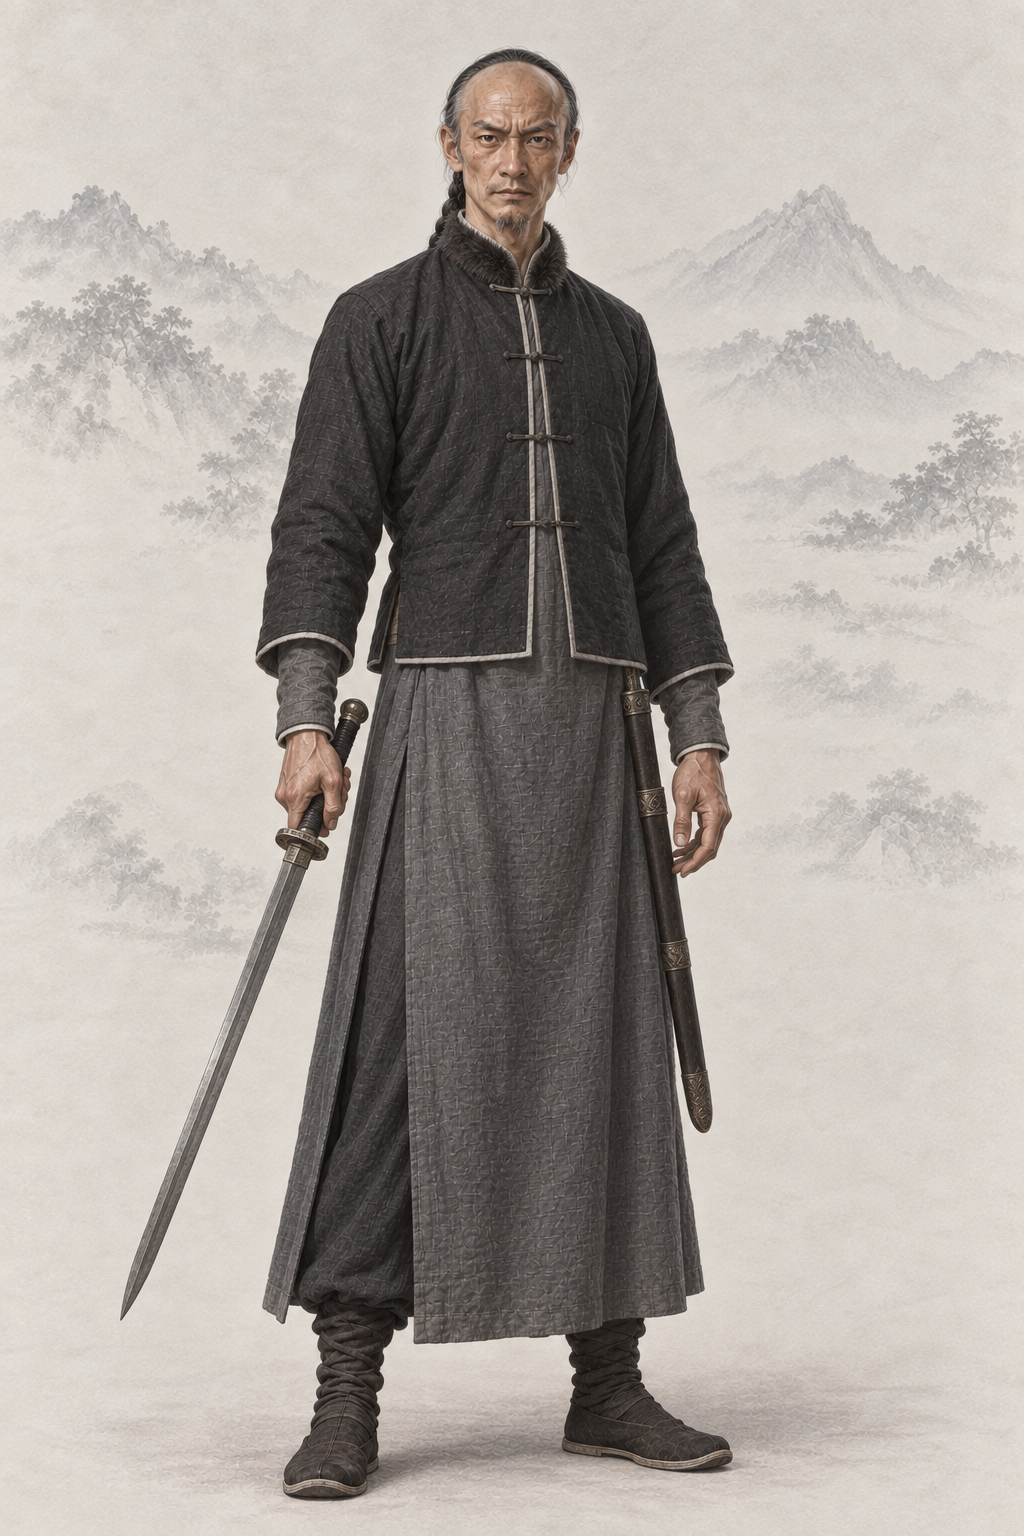
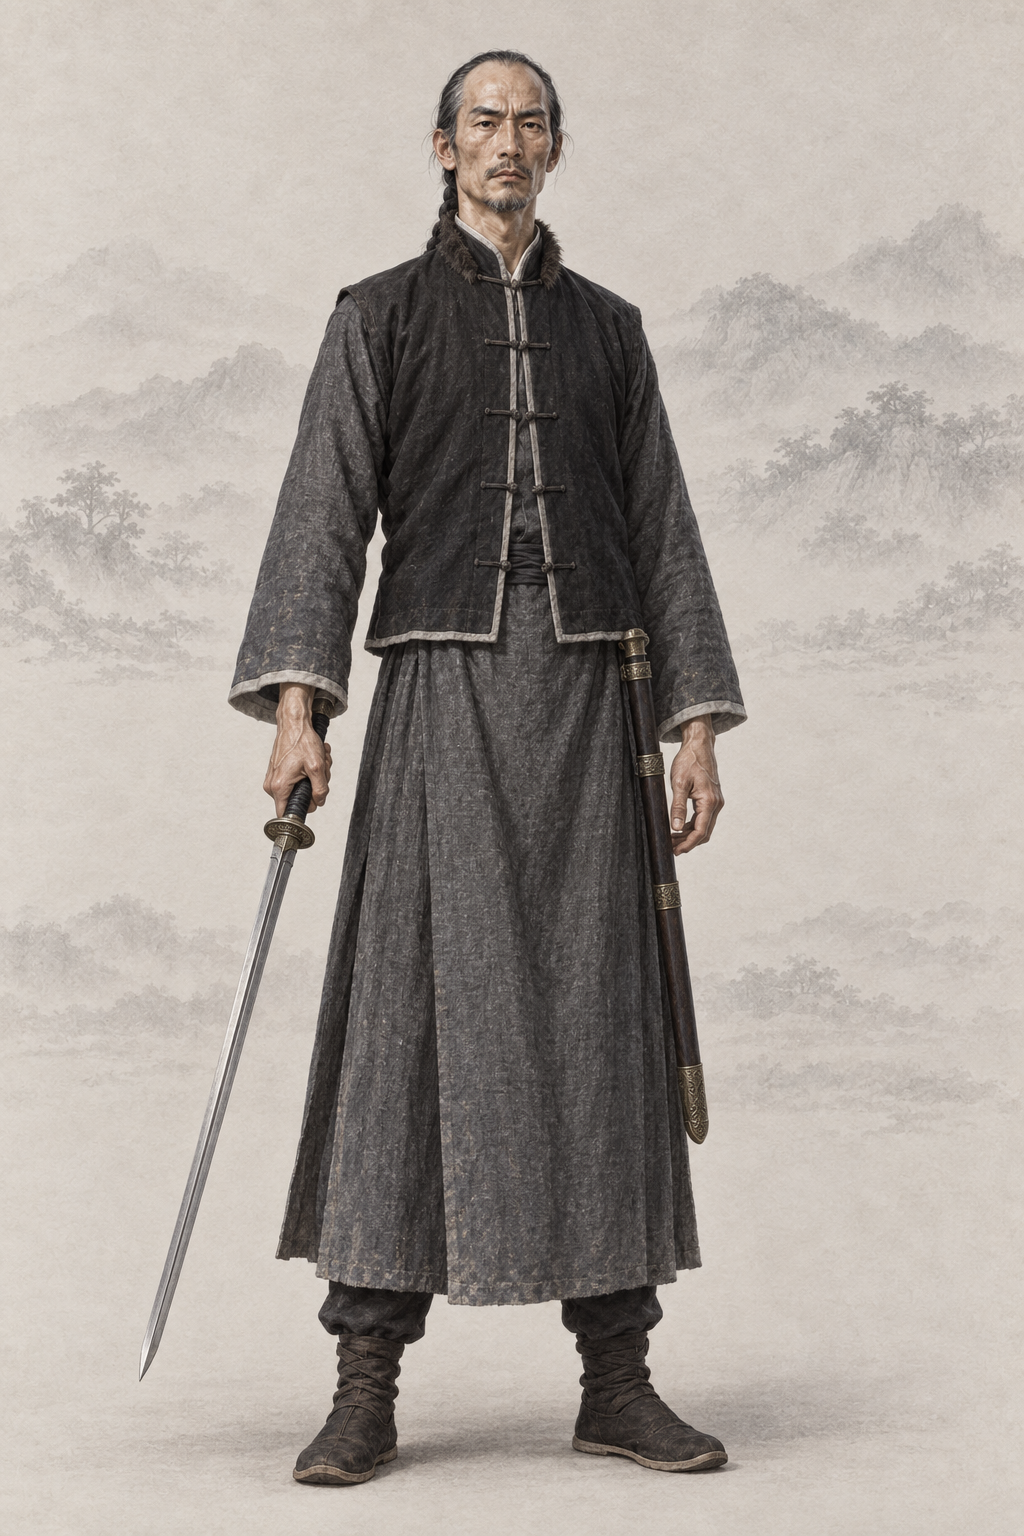
assets(character): por_npc_miaorenfeng__ch14_elder_base 苗人凤（codex · AR-32 主要角色重出，本机无剧照：本轮新图身份参考 + 基线）
本机无剧照，文字 + 基线，身份参考本轮新图；提示词写回「## Gemini 提示词」，上一版留作历史，frontmatter 加 classic_ref。

diff --git a/assets/default/prompts/characters/ch14-xueshan/npc_miaorenfeng.md b/assets/default/prompts/characters/ch14-xueshan/npc_miaorenfeng.md
@@ -13,10 +13,15 @@ references:
     use: 当前状态 candidate（当前工作区 manifest 未获批准）；仅参考纸底、光线、笔触、设色，不沿用面容、体型、服饰或道具
 status: redo
 redo_reason: "主检出现图的脸与飞狐版一致，但没有老化（无灰白），身材也不够「极高极瘦」；以重出后的飞狐苗人凤为参考，老九岁并保持竹篙身形与大手。"
+codex_prompt_rev: 2026-10-02
+classic_ref:
+  version: "无剧照（本机没有1991 年台视《雪山飞狐》（含飞狐外传情节）里该角色的剧照，经典造型用文字描写）"
+  stills: []
+  note: "本机没有该角色的经典版剧照，只用文字和两张同性别基线出图（AR-32）；另上传本轮新出的 por_npc_miaorenfeng__ch13_prime_recovered_base 作身份参考（放在最前）"
 reference_upload:
 - assets/default/character/male/ch13/por_npc_miaorenfeng__ch13_prime_recovered_base.png
 - assets/default/baseline/character/male/ref_npc_linghuchong__ch05_base01.png
-codex_prompt_rev: 2026-10-02
+- assets/default/baseline/character/male/ref_npc_xiaofeng__ch01_base01.png
 ---
 
 <!-- full-coverage-import:current-policy:v1 -->
@@ -29,6 +34,26 @@ codex_prompt_rev: 2026-10-02
 # 苗人凤 · 《雪山飞狐》（ch14）
 
 ## Gemini 提示词
+
+> 2026-10-02 AR-32 经典剧照重出（6 号出图员，codex exec · image_gen 出图）：本机没有该角色剧照：上传本轮新出的 por_npc_miaorenfeng__ch13_prime_recovered_base（同一人物）作身份参考在前、两张同性别基线在后。剧照只借鉴发型、服饰、配色、标志道具、气质与面部特征，重新绘制成项目画风，不照搬照片的构图、光影和姿势；人物一律成年；清代男子按清制剃额留辫。提示词里不写演员名。上一版提示词保留在下一节作历史。
+
+```text
+生成一张 2:3 竖幅全身人物立绘：单人、单一视角、完整全身——头顶、双手、双脚和手中器物的两端都在画面内，四周留出自然空白；人物站姿自然，身体基本朝向正面，头部端正（不歪头、不仰不俯），镜头平视。
+【参考图】随提示词上传 3 张参考图。第 1 张是本轮新画的苗人凤（九年前，飞狐外传时期）立绘，是同一个人：同一张蜡黄的长脸、同样极高极瘦的身材，只是按下文老了九岁；保持同一张脸（脸型、五官比例、肤色和神态），衣服、发式和姿势按下文文字重画，不要照搬它的构图和站姿。最后两张是本项目画风基线：画风、用色、光线、质感和暖浅灰纸底加淡水墨背景以它们为准。
+【画风】写实手绘古风人物插画，与本项目写实武侠角色立绘同一画风，像功力深厚的画师用细腻笔触画出的真实人物。手绘插画质感，不是 CG 渲染：不要过度光滑的皮肤、完美对称的五官、塑料高光、过度锐利的发丝；保留自然的笔触和细微不完美。皮肤有真实质感——细小毛孔、细纹、晒痕和自然的左右不对称，不磨皮、不油亮；头发是一缕缕自然的发丝和少量碎发；布料看得出经纬纹理、厚薄和自然垂坠的褶皱，带穿用过的轻微旧化，但完整不破烂；整体设色低饱和、沉稳；柔和的自然光从左上方照来，明暗过渡自然，不打舞台光、轮廓光或美颜柔光。不是照片，不是三维渲染，不是动漫或游戏 CG，也不是油画（没有厚涂笔触和画布纹理）。
+【背景】不透明的暖浅灰色纸底，只在远处有极淡的水墨远山和薄雾，大面积留白；人物与背景明暗分明、轮廓边缘干净完整（后续要自动抠图），水墨和纸纹只在背景里，不侵入人物和衣服；脚下只有很淡的一点接触阴影。
+【人物】苗人凤，金庸《雪山飞狐》中的「金面佛」，苗家剑高手，胡斐最后的对手，雪崖决斗之前。
+【年龄与体态】五十五岁左右的男人；极高极瘦，像一根竹篙，肩宽而薄，手臂很长，约八头身；一双手掌大如蒲扇，指节根根分明、青筋显露；背脊挺直，筋骨强健，不是病弱。
+【经典造型】要一眼认出是「金面佛」苗人凤——黑色立领短褂加旧毛领、蜡黄长脸、极高极瘦如竹篙，鬓须已见灰白，沉郁孤傲、不苟言笑的一代剑客。
+【面容】与第 1 张参考图是同一张脸；同一张蜡黄的长脸：两颊瘦削凹陷，颧骨高，眼窝深陷，眼神沉定而有威压；皱纹比九年前更深，两鬓和短须已有明显的灰白；薄唇紧闭，不笑。
+【发式】清代男子发式：前额剃净，灰黑掺白的长辫垂在背后。
+【服饰】深灰色厚长袍，外罩黑色对襟短褂（立领，领口和门襟镶银灰色窄滚边），领口加一圈旧的深色毛皮；黑色长裤，深棕色靴子。
+【道具与姿态】右手垂持一柄出鞘的普通中式长剑，剑尖斜指身外下方，剑身朴素无光；左腰挂着空剑鞘。笔直站立，锋芒内敛，眼神沉着。
+【不要】画面里不要任何文字、题款、印章、签名、水印、台标、边框、分格或多视图；不要第二个人；不要幼态（童颜、娃娃脸、婴儿肥、儿童或少年身材、大头小身）；不要塑料感皮肤、磨皮美颜、网红脸（尖下巴大眼高鼻的模板脸）、过度对称、浓妆、偶像式打光、蜡像感；不要照片质感、三维渲染或动漫大眼；不要歪头、斜镜头；不要多指、缺指（设定的伤残除外）、手与器物粘连或悬空；汉式交领必须右衽（穿着者的左襟压在右襟上），不要左衽（设定为少数民族服制的除外），不要水平镜像；不要现代物品、日式服饰或日本刀、发光特效、法阵或能量光。不要蒙眼布；不要胖或魁梧；不要金色面具或佛像；不要发光的剑；不要笑容。
+【画风基线】随提示词上传的参考图里，最后两张是本项目的立绘画风基线：只参考它们的画风、用色、光线、质感和暖浅灰纸底加淡水墨的背景处理，整体画风必须与它们一致——精细写实的数字手绘插画，不是油画，不要厚涂笔触和画布纹理。基线图只取画风，不取长相：不要照搬基线图里人物的长相、年龄、发型、服饰和姿势。
+```
+
+## 上一版 Gemini 提示词（2026-10-02 文字版；AR-32 经典剧照重出前，历史，不再用于出图）
 
 > 2026-10-02 Codex 人物线 2 号（AR-31）：在审核组稿上补一行「经典形象」（借鉴公认经典造型的发式、装束、配色、标志道具与气质，只写文字，不写演员名、不上传剧照），并补去 AI 化要求。本轮出图用下面第一个代码块；审核组原稿保留在其后的「审核组原稿」小节作历史。
 
